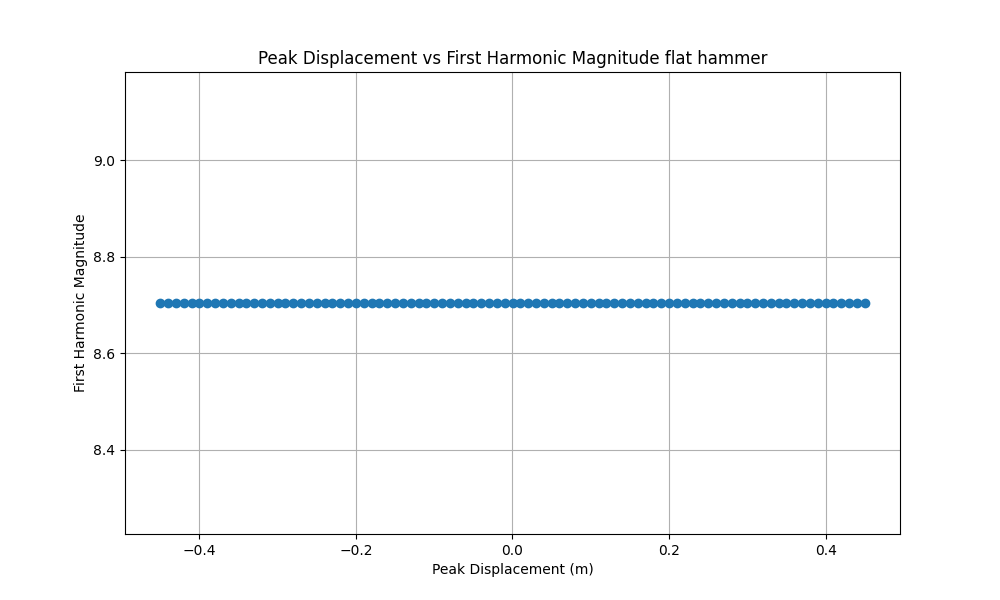
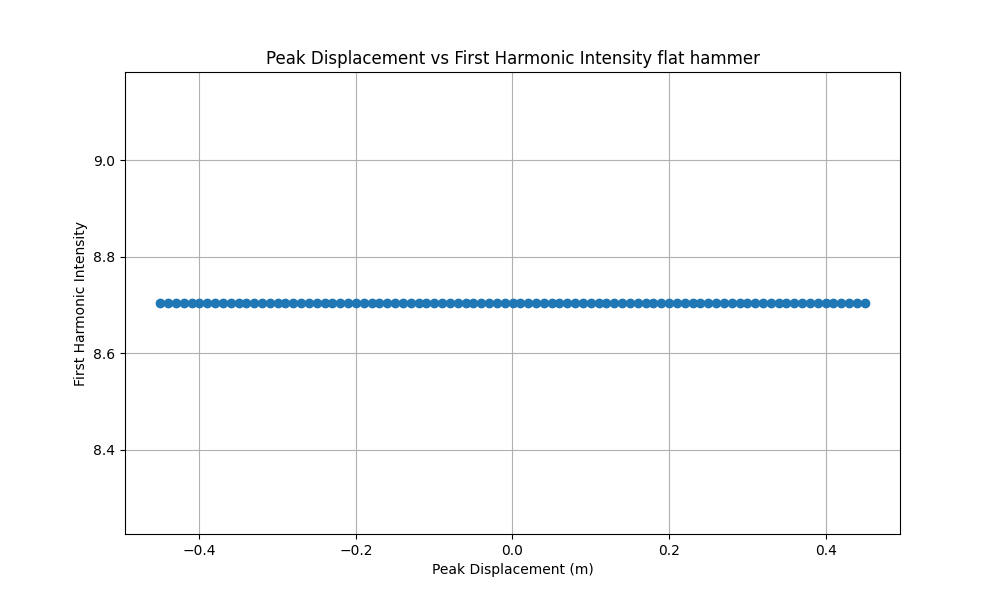
ex12p4

Changed region(s): [[0.248, 0.09, 0.775, 0.12], [0.062, 0.36, 0.093, 0.66]]

diff --git a/exercise12/piano_displace.py b/exercise12/piano_displace.py
@@ -39,9 +39,9 @@ def create_initial_string(l=1.0, n=1000, shape='flat', d=0.0):
 
 
 ## Create initial string shapes
-##flat_string = create_initial_string(l=1.0, n=2000, shape='flat', d=0.0)
-##round_string = create_initial_string(l=1.0, n=2000, shape='round', d=0.0)
-##gaussian_string = create_initial_string(l=1.0, n=2000, shape='gaussian', d=-0.45)
+flat_string = create_initial_string(l=1.0, n=2000, shape='flat', d=0.0)
+round_string = create_initial_string(l=1.0, n=2000, shape='round', d=0.0)
+gaussian_string = create_initial_string(l=1.0, n=2000, shape='gaussian', d=0.0)
 
 
 def test_initial_string_shapes():
@@ -95,12 +95,12 @@ def plot_frequency_domain(fsignals, labels, filename, peaks, res):
     for ax, signal, label, k, r in zip(axs, fsignals, labels, peaks, res):
         if signal is not None:
             ## Detect principal frequencies
-            principal_freqs, magnitudes = detect_principal_frequencies(signal, k=k, res=r)
+            principal_freqs, intensities = detect_principal_frequencies(signal, k=k, res=r)
 
-            ## Print principal frequencies and their magnitudes with 1 decimal place
+            ## Print principal frequencies and their intensities with 1 decimal place
             print(f'Principal frequencies for {label}: {[f"{pf:.1f}" for pf in principal_freqs]}')
-            ## Use scientific notation for magnitudes
-            print(f'Magnitudes for {label}: {[f"{mag:.1e}" for mag in magnitudes]}')
+            ## Use scientific notation for intensities
+            print(f'Intensities for {label}: {[f"{intensity:.1e}" for intensity in intensities]}')
 
             ## Plot intensity spectrum |F(f)|^2
             xf = signal[:, 0]
@@ -115,7 +115,7 @@ def plot_frequency_domain(fsignals, labels, filename, peaks, res):
     axs[0].set_title('Frequency-Domain Signals')
     axs[-1].set_xlabel('Frequency (Hz)')
     for ax in axs:
-        ax.set_ylabel('Magnitude')
+        ax.set_ylabel('Intensity |F(f)|²')
         ax.legend()
         ax.grid()
     plt.tight_layout()
@@ -138,25 +138,25 @@ def detect_principal_frequencies(signal, k=5, res=20):
     # Sort local maxima by magnitude
     local_maxima.sort(key=lambda x: x[1], reverse=True)
     principal_freqs = []
-    magnitudes = []
+    intensities = []
     for freq, mag in local_maxima:
         if all(abs(freq - pf) >= res for pf in principal_freqs):
             principal_freqs.append(freq)
-            magnitudes.append(mag)
+            intensities.append(mag)
         if len(principal_freqs) >= k:
             break
 
-    return principal_freqs, magnitudes
+    return principal_freqs, intensities
 
 
 ## Compute FFT of all signals
-## [flat_f, round_f, gaussian_f] = compute_all_fft([flat_string, round_string, gaussian_string])
+[flat_f, round_f, gaussian_f] = compute_all_fft([flat_string, round_string, gaussian_string])
 
 ## Plot frequency-domain signals
-## plot_frequency_domain([flat_f, round_f, gaussian_f], 
-##                      ['Flat Top', 'Rounded Top', 'Gaussian'], 
-##                      'displaced_hammer_frequency_domain.png', 
-##                      peaks=[10, 10, 10], res=[20, 20, 20])
+plot_frequency_domain([flat_f, round_f, gaussian_f], 
+                      ['Flat Top', 'Rounded Top', 'Gaussian'], 
+                      'displaced_hammer_frequency_domain.png', 
+                      peaks=[10, 10, 10], res=[20, 20, 20])
 
 
 ## Create a graph with peak displacement in x and magnitude of the first harmonic in y.
@@ -164,19 +164,19 @@ def detect_principal_frequencies(signal, k=5, res=20):
 def plot_peak_displacement_vs_first_harmonic(shape='flat'):
     displacements = np.arange(-0.45, 0.46, 0.01)
     peak_displacements = []
-    first_harmonic_magnitudes = []
+    first_harmonic_intensities = []
     for d in displacements:
         string = create_initial_string(l=1.0, n=2000, shape=shape, d=d)
         fsignal = compute_fft(string)
-        principal_freqs, magnitudes = detect_principal_frequencies(fsignal, k=1, res=20)
+        principal_freqs, intensities = detect_principal_frequencies(fsignal, k=1, res=20)
         peak_displacements.append(d)
-        first_harmonic_magnitudes.append(magnitudes[0] if magnitudes else 0)
+        first_harmonic_intensities.append(intensities[0] if intensities else 0)
 
     plt.figure(figsize=(10, 6))
-    plt.plot(peak_displacements, first_harmonic_magnitudes, marker='o')
-    plt.title('Peak Displacement vs First Harmonic Magnitude ' + shape + ' hammer')
+    plt.plot(peak_displacements, first_harmonic_intensities, marker='o')
+    plt.title('Peak Displacement vs First Harmonic Intensity ' + shape + ' hammer')
     plt.xlabel('Peak Displacement (m)')
-    plt.ylabel('First Harmonic Magnitude')
+    plt.ylabel('First Harmonic Intensity')
     plt.grid()
     plt.savefig('peak_displacement_vs_first_harmonic_' + shape + '.png')
 

diff --git a/README.md b/README.md
@@ -190,6 +190,15 @@ Required dependencies and installation instructions are given below. The code ha
   - [Problem 3 test](exercise12/exercise12_3.txt)
   - [Problem 3 plot spatial](exercise12/initial_string_shapes.png)
   - [Problem 3 plot frequency](exercise12/piano_string_frequency_domain.png)
+  - [Problem 4 plot intensity of harmonics](exercise12/displaced_hammer_frequency_domain.png)
+  - [Problem 4 plot fundamental harmonic as function of displacement, flat](exercise12/peak_displacement_vs_first_harmonic_flat.png)
+  - [Problem 4 plot fundamental harmonic as function of displacement, round](exercise12/peak_displacement_vs_first_harmonic_round.png)
+  - [Problem 4 plot fundamental harmonic as function of displacement, gaussian](exercise12/peak_displacement_vs_first_harmonic_gaussian.png)
+  - [Problem 4 test](exercise12/exercise12_4.txt)
+  - [Problem 4 code](exercise12/piano_displace.py)
+
+  
+
 
 
 
